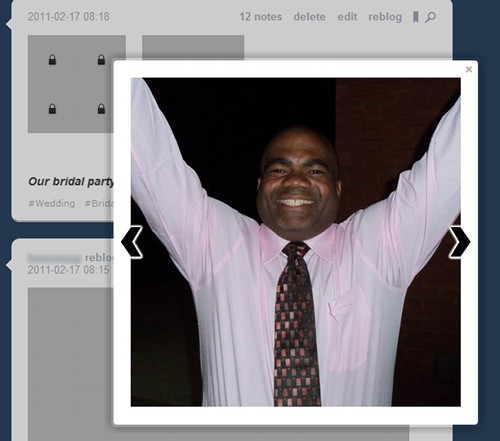
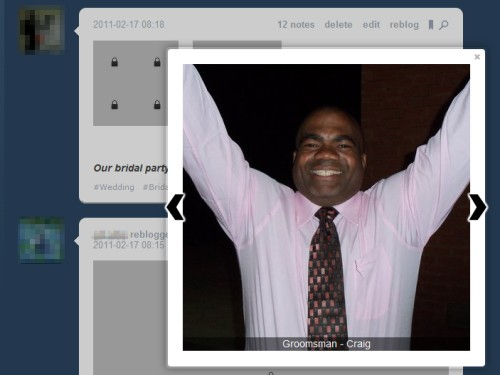
Some fixes to magnifier

diff --git a/chrome/options.html b/chrome/options.html
@@ -774,7 +774,7 @@ function doshow(component) {
 <form id="magnifier_options">
 <div class="post_title"><input onchange="toggle(this);" class="toggler" type="checkbox" name="active" checked="checked" value="1" /> Magnifier</div>
 <div class="post_thumb"><a href="magnifier/screen.jpg" rel="facebox"><img src="magnifier/thumb.jpg" /><br />Screenshot</a></div>
-<p>Add a small <img src="magnifier/magnifier-icon.png" alt="Magnifier Icon" /> icon to photo posts on the dashboard to view the full-size images without ever leaving the dashboard.</p><p><em>Magnifier</em> also works on photoset posts!</p>
+<p>Add a small <img src="magnifier/magnifier-icon.png" alt="Magnifier Icon" /> icon to photo posts on the dashboard to view the full-size images without ever leaving the dashboard. <em>Magnifier</em> will resize the images to fit on your screen, but you can click on the enlarged image to open it in a new tab.</p><p><em>Magnifier</em> also works on photoset posts!</p>
 <table class="options_table">
 <tr><td class="odd">Number of retries on failure to load image URLs (default <span class="defRetries">10</span>)</td><td class="odd"><input class="numinput" size="1" type="text" name="MissingE_magnifier_retries" value="10" size="5" onchange="doSetting(this,true,defaultRetries,maxRetries);" onkeyup="doKeyUp(this,true,defaultRetries,maxRetries);" />&nbsp;<span class="resetter" onclick="resetRetries(this)">Reset</span></td></tr></table>
 </form>

diff --git a/chrome/magnifier/magnifier.js b/chrome/magnifier/magnifier.js
@@ -25,7 +25,7 @@ var magimg = chrome.extension.getURL('magnifier/magnifier.png');
 var turnimg = chrome.extension.getURL('magnifier/turners.png');
 var turnload = new Image();
 turnload.src = turnimg;
-$('head').append('<style type="text/css">a.s113977_magnify { background-image:url("' + magimg + '"); } #facebox .slideshow .turner_left, #facebox .slideshow .turner_right{ background-image:url("' + turnimg + '"); }');
+$('head').append('<style type="text/css">a.s113977_magnify { background-image:url("' + magimg + '"); } #facebox .slideshow .turner_left, #facebox .slideshow .turner_right{ background-image:url("' + turnimg + '"); }</style>');
 
 function magClick(e) {
    if (e.which == 1) {

diff --git a/chrome/facebox/facebox.css b/chrome/facebox/facebox.css
@@ -111,7 +111,7 @@ width:100%;
 opacity:0.5;
 }
 
-#facebox .slideshow .captioned:hover .caption {
+#facebox:hover .slideshow .captioned .caption {
 display:block;
 }
 
